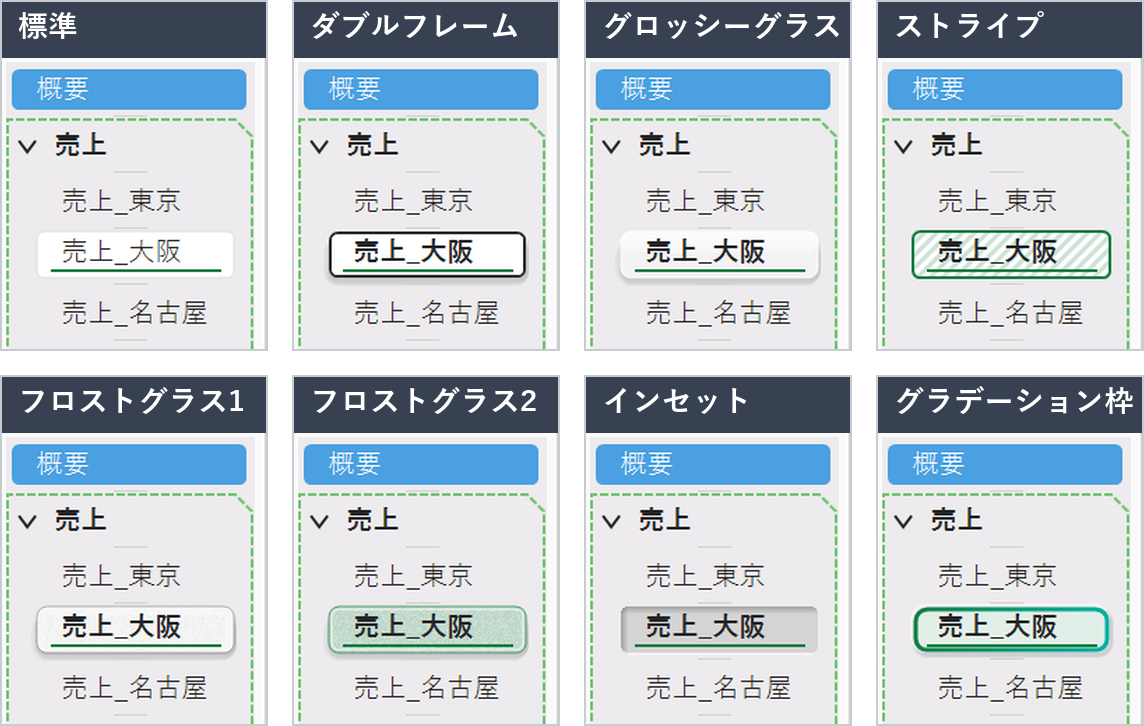
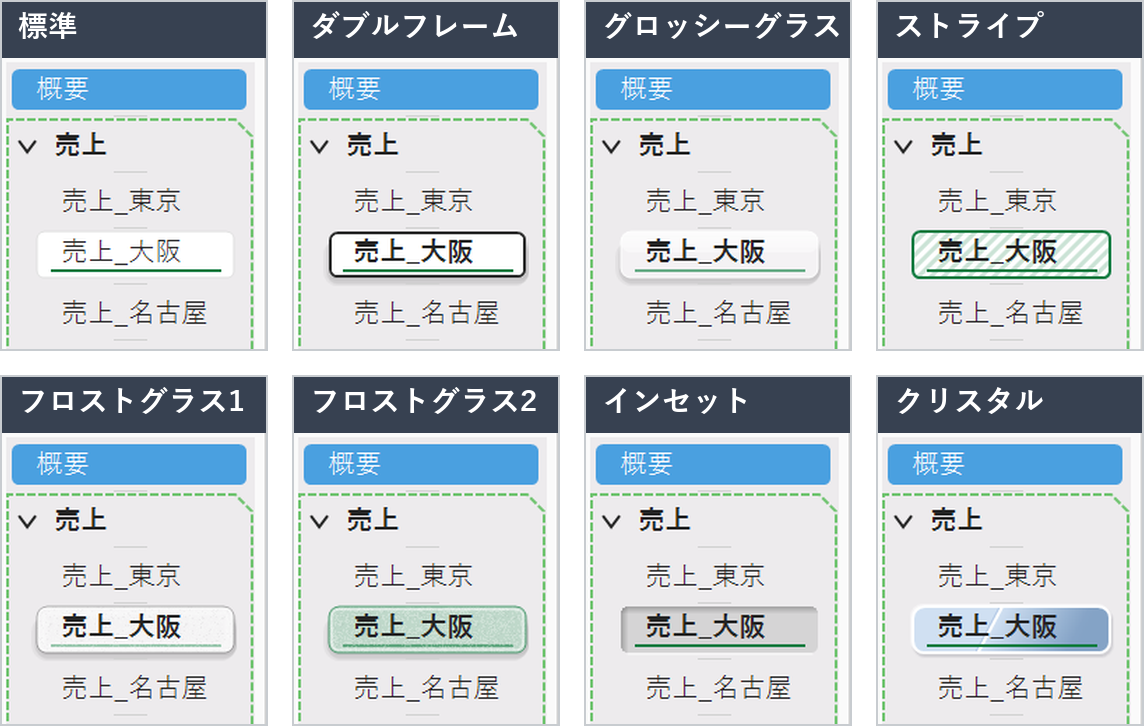
選択デザインの「グラデーション枠」を「クリスタル」に置き換える

diff --git a/VerticalSheetTabs/TabStrip.cs b/VerticalSheetTabs/TabStrip.cs
@@ -496,7 +496,7 @@ namespace VerticalSheetTabs
 
         private bool Stripes { get { return _selectStyle == SelectStyle.Stripes; } }
 
-        private bool Gradient { get { return _selectStyle == SelectStyle.GradientFrame; } }
+        private bool Crystal { get { return _selectStyle == SelectStyle.Crystal; } }
 
         // The mark of the active sheet, with every look (Agents.md 12.110).
         private ActiveMarker _activeMarker = ActiveMarker.Underline;
@@ -753,10 +753,10 @@ namespace VerticalSheetTabs
                 var body = new Rectangle(left, row.Top + Px(PlainTop), right - left, row.Height - Px(PlainTop) - Px(BottomInset));
                 textColor = DrawStripes(g, body, radius, colored, color);
             }
-            else if (selected && Gradient)
+            else if (selected && Crystal)
             {
                 var body = new Rectangle(left, row.Top + Px(PlainTop), right - left, row.Height - Px(PlainTop) - Px(BottomInset));
-                textColor = DrawGradientFrame(g, body, colored, color, 1.0);
+                textColor = DrawCrystal(g, body, colored, color, 1.0);
             }
             else if (selected && Glass)
             {
@@ -930,10 +930,10 @@ namespace VerticalSheetTabs
                 if (triangles) DrawMarkers(g, body, 0, LineColorFor(tabColor, colored));
                 if (bars) DrawEdgeBars(g, body, LineColorFor(tabColor, colored));
             }
-            else if (selected && Gradient)
+            else if (selected && Crystal)
             {
                 var body = new Rectangle(left, row.Top + Px(PlainTop), right - left, row.Height - Px(PlainTop) - Px(BottomInset));
-                textColor = DrawGradientFrame(g, body, colored, tabColor, active ? 1.0 : 0.6);
+                textColor = DrawCrystal(g, body, colored, tabColor, active ? 1.0 : 0.6);
                 if (underline) DrawUnderline(g, body, LineColorFor(tabColor, colored));
                 if (triangles) DrawMarkers(g, body, 0, LineColorFor(tabColor, colored));
                 if (bars) DrawEdgeBars(g, body, LineColorFor(tabColor, colored));
@@ -988,7 +988,7 @@ namespace VerticalSheetTabs
             if (_editor == null || name != _editingSheet)
             {
                 g.TextRenderingHint = TextRenderingHint.ClearTypeGridFit;
-                using (var font = selected && (DoubleFrame || Glass || Inset || Stripes || Gradient) ? new Font(TabFont, FontStyle.Bold) : null)
+                using (var font = selected && (DoubleFrame || Glass || Inset || Stripes || Crystal) ? new Font(TabFont, FontStyle.Bold) : null)
                 using (var brush = new SolidBrush(textColor))
                 using (var format = new StringFormat(StringFormat.GenericDefault))
                 {
@@ -1084,18 +1084,18 @@ namespace VerticalSheetTabs
             return TextOn(fill);
         }
 
-        // The gradient-frame look (Agents.md 12.131): a pale chip (a tint of the row's color; a row without color: of Excel's green)
-        // that is a little raised (half of the shadow of the neumorphic sketch: a light shadow at the lower right, a white glow at
-        // the upper left; GDI+ has no blur, so a few translucent shapes of growing size stand for each), inside a ring whose color
-        // runs from left to right: a dark shade of the row's color to a light one (Excel's green to a teal for a row without color).
-        // Returns the color of the text on it.
-        private Color DrawGradientFrame(Graphics g, Rectangle body, bool colored, Color color, double strength)
+        // The crystal look (Agents.md 12.139): the row is cut by a diagonal line into a light face at the left (the color of the row made
+        // lighter, or a pale blue for a row without color) and a dark one at the right; the light color fades out into the dark one, going
+        // right from the cut (over about 40% of the width), and a white line marks the cut (with a faint light line along its left side).
+        // The body is a little raised: half of the shadow of the neumorphic sketch (a light shadow at the lower right, a white glow at the
+        // upper left; GDI+ has no blur, so a few translucent shapes of growing size stand for each), and it has a white edge. Returns the
+        // color of the text on it.
+        private Color DrawCrystal(Graphics g, Rectangle body, bool colored, Color color, double strength)
         {
             bool dark = Theme.BarBack.GetBrightness() < 0.4f;
-            int radius = Px(8);
-            Color tint = colored ? Mix(color, Color.White, 0.72) : Mix(Underline, Color.White, 0.88);
-            Color left = colored ? Mix(color, Color.Black, 0.35) : Underline;
-            Color right = colored ? Mix(color, Color.White, 0.15) : Color.FromArgb(0, 176, 160);
+            int radius = Px(6);
+            Color baseColor = colored ? color : Color.FromArgb(150, 185, 225);
+            Color light = Mix(baseColor, Color.White, 0.55), deep = Mix(baseColor, Color.Black, 0.12);
             for (int k = 3; k >= 1; k--)
             {
                 var r = Rectangle.Inflate(body, Px(0.5 * k), Px(0.5 * k));
@@ -1116,18 +1116,40 @@ namespace VerticalSheetTabs
                     g.FillPath(brush, path);
                 }
             }
+            // the cut: from (cutX + 8, top) to (cutX - 6, bottom), DIP
+            float cutX = body.Left + body.Width * 0.38f;
+            var top = new PointF(cutX + Px(8), body.Top);
+            var bottom = new PointF(cutX - Px(6), body.Bottom);
             using (GraphicsPath path = RoundedRect(body, radius))
-            using (var brush = new SolidBrush(tint))
             {
-                g.FillPath(brush, path);
-            }
-            float ring = Math.Max(2f, Px(2.6));
-            Rectangle ringRect = Rectangle.Inflate(body, -(int)Math.Ceiling(ring / 2), -(int)Math.Ceiling(ring / 2));
-            using (GraphicsPath path = RoundedRect(ringRect, Math.Max(1, radius - (int)Math.Ceiling(ring / 2))))
-            using (var brush = new LinearGradientBrush(new Rectangle(body.X, body.Y, Math.Max(2, body.Width), Math.Max(2, body.Height)), left, right, LinearGradientMode.Horizontal))
-            using (var pen = new Pen(brush, ring))
-            {
-                g.DrawPath(pen, path);
+                using (var brush = new SolidBrush(light)) g.FillPath(brush, path);
+                Region clip = g.Clip;
+                g.SetClip(path, CombineMode.Intersect);
+                // the dark face, with a gradient across the cut (its direction is at a right angle to the cut) from the light color to the dark one
+                float dx = bottom.X - top.X, dy = bottom.Y - top.Y, len = (float)Math.Sqrt(dx * dx + dy * dy);
+                float nx = dy / len, ny = -dx / len; // at a right angle to the cut, pointing to the right
+                if (nx < 0) { nx = -nx; ny = -ny; }
+                var p1 = new PointF((top.X + bottom.X) / 2, (top.Y + bottom.Y) / 2);
+                float span = body.Right - p1.X + Px(2);
+                var p2 = new PointF(p1.X + nx * span, p1.Y + ny * span);
+                float fade = Math.Min(1f, body.Width * 0.4f / span);
+                using (var brush = new LinearGradientBrush(p1, p2, light, deep))
+                {
+                    brush.InterpolationColors = new ColorBlend(3)
+                    {
+                        Colors = new[] { light, deep, deep },
+                        Positions = new[] { 0f, fade, 1f }
+                    };
+                    var face = new[] { top, new PointF(body.Right + Px(1), body.Top), new PointF(body.Right + Px(1), body.Bottom), bottom };
+                    g.FillPolygon(brush, face);
+                }
+                using (var pen = new Pen(Color.FromArgb(90, 120, 150, 200), Math.Max(1f, Px(1.0))))
+                {
+                    g.DrawLine(pen, top.X - Px(1.5), top.Y, bottom.X - Px(1.5), bottom.Y);
+                }
+                using (var pen = new Pen(Color.White, Math.Max(1.5f, Px(1.6)))) g.DrawLine(pen, top, bottom);
+                g.Clip = clip;
+                using (var pen = new Pen(Color.White, Math.Max(1.5f, Px(1.2)))) g.DrawPath(pen, path);
             }
             return TextColor;
         }

diff --git a/VerticalSheetTabs/SettingsForm.cs b/VerticalSheetTabs/SettingsForm.cs
@@ -28,7 +28,7 @@ namespace VerticalSheetTabs
         private readonly RadioButton _styleFrosted2 = new RadioButton();
         private readonly RadioButton _styleInset = new RadioButton();
         private readonly RadioButton _styleStripes = new RadioButton();
-        private readonly RadioButton _styleGradient = new RadioButton();
+        private readonly RadioButton _styleCrystal = new RadioButton();
         private GroupBox _styleGroup;
         private readonly RadioButton _markerNone = new RadioButton();
         private readonly RadioButton _markerUnderline = new RadioButton();
@@ -146,9 +146,9 @@ namespace VerticalSheetTabs
             _styleFrosted2.Checked = selectStyle == SelectStyle.FrostedGlass2;
             _styleInset.Checked = selectStyle == SelectStyle.Inset;
             _styleStripes.Checked = selectStyle == SelectStyle.Stripes;
-            _styleGradient.Checked = selectStyle == SelectStyle.GradientFrame;
+            _styleCrystal.Checked = selectStyle == SelectStyle.Crystal;
             // the buttons sit in different panels (each next to its samples), so the form keeps them exclusive
-            RadioButton[] styles = { _styleStandard, _styleDouble, _styleGlossy, _styleStripes, _styleFrosted, _styleFrosted2, _styleInset, _styleGradient };
+            RadioButton[] styles = { _styleStandard, _styleDouble, _styleGlossy, _styleStripes, _styleFrosted, _styleFrosted2, _styleInset, _styleCrystal };
             foreach (RadioButton r in styles)
             {
                 RadioButton self = r;
@@ -192,7 +192,7 @@ namespace VerticalSheetTabs
                     : _styleFrosted2.Checked ? SelectStyle.FrostedGlass2
                     : _styleInset.Checked ? SelectStyle.Inset
                     : _styleStripes.Checked ? SelectStyle.Stripes
-                    : _styleGradient.Checked ? SelectStyle.GradientFrame : SelectStyle.Standard;
+                    : _styleCrystal.Checked ? SelectStyle.Crystal : SelectStyle.Standard;
             }
         }
 
@@ -233,7 +233,7 @@ namespace VerticalSheetTabs
             _styleFrosted2.Text = "フロストグラス２ (行の色を帯びた磨りガラス)";
             _styleInset.Text = "インセット (押し込まれたように凹む)";
             _styleStripes.Text = "ストライプ (ななめの縞で、目立たせる)";
-            _styleGradient.Text = "グラデーション枠 (行の色の輪を持つ、浮き出た面)";
+            _styleCrystal.Text = "クリスタル (斜めのカット面で、明るい色が消えていく)";
             var panel = new TableLayoutPanel
             {
                 ColumnCount = 5,
@@ -253,7 +253,7 @@ namespace VerticalSheetTabs
             panel.Controls.Add(CreateStyleBlock(_styleFrosted, SelectStyle.FrostedGlass), 1, 1);
             panel.Controls.Add(CreateStyleBlock(_styleFrosted2, SelectStyle.FrostedGlass2), 2, 1);
             panel.Controls.Add(CreateStyleBlock(_styleInset, SelectStyle.Inset), 3, 1);
-            panel.Controls.Add(CreateStyleBlock(_styleGradient, SelectStyle.GradientFrame), 4, 1);
+            panel.Controls.Add(CreateStyleBlock(_styleCrystal, SelectStyle.Crystal), 4, 1);
             group.Controls.Add(panel);
             panel.Location = group.DisplayRectangle.Location;
             Size content = panel.PreferredSize;

diff --git a/VerticalSheetTabs/WorkbookSettings.cs b/VerticalSheetTabs/WorkbookSettings.cs
@@ -20,7 +20,7 @@ namespace VerticalSheetTabs
         FrostedGlass2, // frosted glass tinted with the row's color (Agents.md 12.107)
         Inset,         // pressed in: a darker body with a shadow inside its upper and left edges (Agents.md 12.115)
         Stripes,       // diagonal stripes with an outline (Agents.md 12.131)
-        GradientFrame  // a pale raised chip with a gradient ring made of the row's color (Agents.md 12.131)
+        Crystal        // diagonal cut faces: a light one and a dark one, the light color fading out into the dark one (Agents.md 12.139)
     }
 
     // The mark of the active sheet (Agents.md 12.110), drawn with every look of SelectStyle.
@@ -52,7 +52,7 @@ namespace VerticalSheetTabs
         public const string OutlineLevelName = "VTab.OutlineLevel"; // number 1..9
         public const string NameRuleName = "VTab.NameRule";         // string "On" / "Off"
         public const string ActiveMarkerName = "VTab.ActiveMarker"; // string "None" / "Underline" / "Triangle" / "EdgeBars" / "CheckBadge" (default "Underline")
-        public const string SelectStyleName = "VTab.SelectStyle";   // string "Standard" / "DoubleFrame" / "FrostedGlass" / "GlossyGlass" / "FrostedGlass2" / "Inset" / "Stripes" / "GradientFrame"
+        public const string SelectStyleName = "VTab.SelectStyle";   // string "Standard" / "DoubleFrame" / "FrostedGlass" / "GlossyGlass" / "FrostedGlass2" / "Inset" / "Stripes" / "Crystal"
 
         // Office.MsoDocProperties values.
         private const int PropTypeNumber = 1;
@@ -176,7 +176,8 @@ namespace VerticalSheetTabs
                 case "FrostedGlass2": return SelectStyle.FrostedGlass2;
                 case "Inset": return SelectStyle.Inset;
                 case "Stripes": return SelectStyle.Stripes;
-                case "GradientFrame": return SelectStyle.GradientFrame;
+                case "Crystal":
+                case "GradientFrame": return SelectStyle.Crystal; // (GradientFrame, in v1.1.50 to v1.1.52, became the crystal look)
                 default: return SelectStyle.Standard;
             }
         }
@@ -191,7 +192,7 @@ namespace VerticalSheetTabs
                 case SelectStyle.FrostedGlass2: return "FrostedGlass2";
                 case SelectStyle.Inset: return "Inset";
                 case SelectStyle.Stripes: return "Stripes";
-                case SelectStyle.GradientFrame: return "GradientFrame";
+                case SelectStyle.Crystal: return "Crystal";
                 default: return "Standard";
             }
         }

diff --git a/Agents.md b/Agents.md
@@ -27,7 +27,7 @@
 | フォルダの選択 | フォルダの行のクリックで、フォルダだけを選択 / 解除する。中のシートは、Excelで選択されない | 12.19 |
 | フォルダの色 | フォルダの行全体に付ける (左端の帯ではない)。シートには反映しない | 12.19 |
 | フォルダの一括操作 | 名前の変更 / すべて非選択 / すべて選択 / すべて非表示 / すべて再表示 / フォルダの色 / 中の全てを常にフォルダと同一色に設定 (ON/OFF、チェックマーク) / フォルダの削除 / フォルダと中のシートを削除 / 全てのフォルダを閉じる / 全てのフォルダを開く。「保護」、「移動またはコピー」、「フォルダと中のシートの色」、「中の全てを選択中シートと同一色に変更」は、削除した | 12.12、12.28 から 12.31、12.39、12.65、12.66、12.80、12.82 |
-| 選択中の行の見た目 | アクティブなシートの印は、設定画面の「アクティブシートのマーカー表示」(下線マーカー / 三角マーカー / 両端バーマーカー / マーカーなし。初期値は下線。ブックごと) で選び、選択デザインと組み合わせて表示する (12.110、12.111、12.116)。三角は、白い縁取りとぼかし (約2px) 付き (12.109)。設定画面の「フォルダ＆シート選択のデザイン」で、8つのタイプから選ぶ (ブックごと。初期値は「標準タイプ」。12.99、12.105、12.107、12.115、12.131)。ストライプタイプは、ななめの縞と枠、グラデーション枠タイプは、浮き出た淡い面と、行の色のグラデーションの輪 (12.131)。アクティブシートのマーカーには、チェックバッジマーカー (名前の左に丸いチェック) もある (12.131)。インセットタイプは、行が押し込まれたように凹んで見える (12.115)。グロッシーグラスタイプ、フロストグラス１タイプ、フロストグラス２タイプは、行の上に、半透明のガラスを重ねる (12.105、12.107)。標準タイプは、v1.1.28 までの見た目 (白い塗りと薄い枠、色付きは上が白のグラデーション、アクティブなシートだけに緑の下線)。ダブルフレームタイプは、次の見た目: 影が付き、暗い外枠と白い内枠の二重の枠で囲まれ、アクティブなシート (内容が表示されているシート) だけに、左右の端に、中央を向いた小さな三角が付く (フォルダと、グループの、ほかのシートには、付かない。12.95、12.97)。文字は太字。色付きは、元の色のまま。三角は、行の色の反対色 (色なしの行は、Excelの緑) で、白い縁と、約4pxの白いぼかしが付く。選択中のすべてのフォルダとシートが、同じ見た目 (グループの、アクティブでないシートは、影が弱い) | 12.85、12.91、12.93、12.95、12.97、12.99、12.105、12.107、12.109、12.110、12.111、12.115、12.116 |
+| 選択中の行の見た目 | アクティブなシートの印は、設定画面の「アクティブシートのマーカー表示」(下線マーカー / 三角マーカー / 両端バーマーカー / マーカーなし。初期値は下線。ブックごと) で選び、選択デザインと組み合わせて表示する (12.110、12.111、12.116)。三角は、白い縁取りとぼかし (約2px) 付き (12.109)。設定画面の「フォルダ＆シート選択のデザイン」で、8つのタイプから選ぶ (ブックごと。初期値は「標準タイプ」。12.99、12.105、12.107、12.115、12.131)。ストライプタイプは、ななめの縞と枠、クリスタルタイプは、斜めのカット面と、消えていく明るい色 (12.139。12.131 のグラデーション枠を置き換えた)。アクティブシートのマーカーには、チェックバッジマーカー (名前の左に丸いチェック) もある (12.131)。インセットタイプは、行が押し込まれたように凹んで見える (12.115)。グロッシーグラスタイプ、フロストグラス１タイプ、フロストグラス２タイプは、行の上に、半透明のガラスを重ねる (12.105、12.107)。標準タイプは、v1.1.28 までの見た目 (白い塗りと薄い枠、色付きは上が白のグラデーション、アクティブなシートだけに緑の下線)。ダブルフレームタイプは、次の見た目: 影が付き、暗い外枠と白い内枠の二重の枠で囲まれ、アクティブなシート (内容が表示されているシート) だけに、左右の端に、中央を向いた小さな三角が付く (フォルダと、グループの、ほかのシートには、付かない。12.95、12.97)。文字は太字。色付きは、元の色のまま。三角は、行の色の反対色 (色なしの行は、Excelの緑) で、白い縁と、約4pxの白いぼかしが付く。選択中のすべてのフォルダとシートが、同じ見た目 (グループの、アクティブでないシートは、影が弱い) | 12.85、12.91、12.93、12.95、12.97、12.99、12.105、12.107、12.109、12.110、12.111、12.115、12.116 |
 | 開いたフォルダ | 点線で囲む (右上と左下が欠ける)。表示 / 非表示と色の段階 (1から9) は、設定画面で選ぶ | 12.42、12.47、12.48、12.50 |
 | 「+」ボタン | 縦タブの下端に常に固定。選択が閉じたフォルダの中だけのときは、一番下に追加 | 12.17、12.50 |
 | シート名のルール | `フォルダ名 \| シート名`。ブックごとに、使う / 使わないを選ぶ (初期値: 使わない) | 12.56 |
@@ -46,7 +46,7 @@
 | 8 | Step0 から Step5 の開発メモ |
 | 9 | Step6 見た目の再現 (採寸結果、テーマ、DPI) |
 | 10、11 | Step7 仕上げ、完了状況と残課題 |
-| 12 | Step8 フォルダ機能の設計と、その後の改善、不具合の修正、リリースの記録 (12.1 から 12.138) |
+| 12 | Step8 フォルダ機能の設計と、その後の改善、不具合の修正、リリースの記録 (12.1 から 12.139) |
 | 13 | リリースの定型作業 |
 
 ## 1. 目的
@@ -115,7 +115,7 @@ Excelのシートタブは標準で横並びだが、シート数が増えると
 | `VTab.OutlineLevel` | 数値 (整数) | 点線の色の段階 1から9 (12.50)。無いブックは 5 |
 | `VTab.NameRule` | 文字列 | `On` / `Off` (シート名のルール。12.56)。無いブックは `Off` |
 | `VTab.ActiveMarker` | 文字列 | `None` / `Underline` / `Triangle` / `EdgeBars` / `CheckBadge` (アクティブなシートのマーカー。12.110、12.111、12.116、12.131)。無いブックは `Underline` |
-| `VTab.SelectStyle` | 文字列 | `Standard` / `DoubleFrame` / `FrostedGlass` / `GlossyGlass` / `FrostedGlass2` / `Inset` / `Stripes` / `GradientFrame` (選択中のフォルダとシートの見た目。12.99、12.105、12.107、12.115、12.131)。無いブックは `Standard` |
+| `VTab.SelectStyle` | 文字列 | `Standard` / `DoubleFrame` / `FrostedGlass` / `GlossyGlass` / `FrostedGlass2` / `Inset` / `Stripes` / `Crystal` (選択中のフォルダとシートの見た目。12.99、12.105、12.107、12.115、12.131)。無いブックは `Standard` |
 
 `VTab.Mode` 等のプロパティが存在しないブックは初回オープンと判断する (`VTab.Outline`、`VTab.OutlineLevel`、`VTab.NameRule`、`VTab.SelectStyle`、`VTab.ActiveMarker` は、判断に使わない)。
 
@@ -1987,3 +1987,12 @@ gitGraph
 
 - 12.137 (ストライプの選択で、明るい色の行は、暗い縞にする) を含めて、バージョンを 1.1.52.0 に上げ、ClickOnce のインストーラを作り直した (`develop` と `master` に反映し、`v1.1.52` のタグを付けた。配布用zip: `配布用zip\VerticalSheetTabs_v1.1.52.zip`)
 - 成果物: `VerticalSheetTabs\bin\Release\app.publish\` (`setup.exe`、`VerticalSheetTabs.vsto`、`Application Files\VerticalSheetTabs_1_1_52_0\`)。インストールの実機確認は、未実施
+
+### 12.139 変更: 選択デザインの「グラデーション枠」を、「クリスタル」に置き換える
+
+- ユーザーの要望により、12.131 の「グラデーション枠」を止めて、「クリスタル」に置き換えた。経緯: 追加の候補を、10案 示し (ネオブルータル、オーロラ、ラベルテープ、リボン、クリスタル、方眼紙、切手、メタル、フォルダタブ、ピクセル)、いったん、追加は中止したが、その後、案5のクリスタルに、グラデーション枠のときのドロップシャドウ (案5の半分の幅) を加え、さらに、カットの左の明るい色が、右へ向かって、フェードアウトする効果を、カット線を残して加えた案を、予想図で確認し、「カット位置が左寄り (行の幅の38%)、中ほどで消える (幅の約40%)」の案 (A2) を選んだ。カット線の右側に沿った影は、付けない
+- 見た目 (`TabStrip.DrawCrystal`): 行を、斜めのカット (上の端が、カット位置より右に8DIP、下の端が、左に6DIP) で、左の明るい面 (行の色を、白に55%混ぜた色。色なしの行は、淡い青 `#96B9E1` を、同じく明るくした色) と、右の濃い面 (行の色を、黒に12%混ぜた色) に分ける。カットから右へ向かって、明るい色が、濃い色へ、行の幅の約40%の距離で、変わっていく (グラデーションの向きは、カット線に直角)。カットには、白い線 (1.6DIP) と、その左側に、淡い青の細い線を引く。全体は、白い縁 (1.2DIP) で囲み、柔らかい影 (右下に淡い影、左上に白い光。案5の半分の幅。GDI+ にはぼかしが無いため、少しずつ大きい半透明の図形を重ねる) で、少し浮いて見える。角の丸みは6DIP。文字は太字、色は、いつもの濃い色。グループの、アクティブでないシートは、影が弱い
+- 保存: `VTab.SelectStyle` の値 `Crystal`。**v1.1.50 から v1.1.52 で、「グラデーション枠」(`GradientFrame`) を保存したブックは、読み込み時に、「クリスタル」として扱う** (`WorkbookSettings` の読み取り)
+- 設定画面: 下段の右端の選択肢が、「クリスタル (斜めのカット面で、明るい色が消えていく)」に変わった。README の画像 (`designs.png`、`settings_full.png`、`settings_design.png`) を、撮り直した
+- 実機で確認 (拡大率125%、カラフルの配色): クリスタルと、4つのマーカー (下線、三角、両端バー、チェックバッジ) の組み合わせを、色なしのシート、橙のシートで撮影して確認した。設定画面の選択肢のサンプルも確認した
+- 未確認: ダークグレー、黒の配色、100%、150%、200%の拡大率、グラデーション枠の保存値を持つ、古いブックの実機での読み込み (コードの対応のみ)

diff --git a/README.md b/README.md
@@ -87,7 +87,7 @@
 
 選択中の行の見た目を、**8種類**から選べます (ブックごとの設定。初期値は「標準」)。
 
-![8つの選択デザイン: 標準、ダブルフレーム、グロッシーグラス、ストライプ、フロストグラス1、フロストグラス2、インセット、グラデーション枠](docs/images/designs.png)
+![8つの選択デザイン: 標準、ダブルフレーム、グロッシーグラス、ストライプ、フロストグラス1、フロストグラス2、インセット、クリスタル](docs/images/designs.png)
 
 | 選択デザイン | 特長 |
 |---|---|
@@ -98,7 +98,7 @@
 | **フロストグラス2** | 行の色を帯びた、磨りガラス |
 | **インセット** | 押し込まれたように凹んで見える |
 | **ストライプ** | ななめの縞と、緑の枠 (色付きの行は、白い縞と、濃い枠) |
-| **グラデーション枠** | 淡い色の面が柔らかく浮き出て、行の色から作ったグラデーションの輪で囲まれる |
+| **クリスタル** | 斜めのカットで、明るい面と濃い面に分かれ、明るい色が右へ消えていく。柔らかい影つき |
 
 さらに、**今、内容が表示されているシート (アクティブなシート)** の印も、5種類から選べます。どの選択デザインとも組み合わせられます。
 
@@ -150,7 +150,7 @@
 |---|---|
 | 縦タブの表示 | シートを縦に並べて表示 / 左右どちらにも配置 / ペインの幅をドラッグで変更 (保存される) / シートが多いときは縦スクロール / 長い名前は「…」で省略、ポインターを乗せると全体を表示 |
 | 表示モード | 横タブのみ / 縦タブのみ / 両方 (ブックごとに選択) |
-| 見た目 | Excelの横タブと同じ色、形、シート見出しの色。選択中のフォルダとシートの見た目は、設定画面で、「標準」(Excelの横タブと同じ。白い塗りと薄い枠、アクティブなシートに緑の下線)、「ダブルフレーム」、「グロッシーグラス」(上半分に反射の帯がある、光沢のあるガラスを重ねる)、「フロストグラス１」(縁が内側から光る磨りガラスを、行の上に重ねる)、「フロストグラス２」(行の色 (色なしの行は緑) を帯びた磨りガラスを重ねる)、「インセット」(押し込まれたように凹んで見える)、「ストライプ」(ななめの縞と枠)、「グラデーション枠」(浮き出た淡い面と、行の色のグラデーションの輪) から選べる (初期値は、標準)。ガラスの選択肢では、行の色や区切り線が、ガラス越しに透けて見える。ダブルフレームでは、選択中の行は、(色付きは、元の色のまま) 影が付き、暗い外枠と白い内枠の二重の枠で囲まれ、文字が太字になる。シートの内容が表示されている、アクティブなシートの印 (マーカー) は、設定画面の「アクティブシートのマーカー表示」で、下線マーカー (名前の下に線)、三角マーカー (左右の端に小さな三角)、両端バーマーカー (左右の端に太い帯)、チェックバッジマーカー (名前の左に丸いチェック)、マーカーなし から選べ (初期値は、下線マーカー)、どの選択デザインとも組み合わせて表示される (フォルダと、グループの、ほかのシートには付かない)。三角は、その行の色の反対色 (色相環で、最も色差が大きい色) で、白い縁取りとぼかしが付き、暗い背景や暗い色の行でも見える。Officeテーマ (カラフル、白、黒、ダークグレー) と画面の拡大率に対応 |
+| 見た目 | Excelの横タブと同じ色、形、シート見出しの色。選択中のフォルダとシートの見た目は、設定画面で、「標準」(Excelの横タブと同じ。白い塗りと薄い枠、アクティブなシートに緑の下線)、「ダブルフレーム」、「グロッシーグラス」(上半分に反射の帯がある、光沢のあるガラスを重ねる)、「フロストグラス１」(縁が内側から光る磨りガラスを、行の上に重ねる)、「フロストグラス２」(行の色 (色なしの行は緑) を帯びた磨りガラスを重ねる)、「インセット」(押し込まれたように凹んで見える)、「ストライプ」(ななめの縞と枠)、「クリスタル」(斜めのカット面と、消えていく明るい色) から選べる (初期値は、標準)。ガラスの選択肢では、行の色や区切り線が、ガラス越しに透けて見える。ダブルフレームでは、選択中の行は、(色付きは、元の色のまま) 影が付き、暗い外枠と白い内枠の二重の枠で囲まれ、文字が太字になる。シートの内容が表示されている、アクティブなシートの印 (マーカー) は、設定画面の「アクティブシートのマーカー表示」で、下線マーカー (名前の下に線)、三角マーカー (左右の端に小さな三角)、両端バーマーカー (左右の端に太い帯)、チェックバッジマーカー (名前の左に丸いチェック)、マーカーなし から選べ (初期値は、下線マーカー)、どの選択デザインとも組み合わせて表示される (フォルダと、グループの、ほかのシートには付かない)。三角は、その行の色の反対色 (色相環で、最も色差が大きい色) で、白い縁取りとぼかしが付き、暗い背景や暗い色の行でも見える。Officeテーマ (カラフル、白、黒、ダークグレー) と画面の拡大率に対応 |
 | シートの操作 | 切り替え / 追加 (+) / 挿入 / 削除 / 名前の変更 / 移動 / コピー / 非表示 / 再表示 / シートの保護 / コードの表示 / シート見出しの色 |
 | 複数選択 | Ctrl+クリック、Shift+クリックで、グループ選択。グループのまま、移動、コピー、色の変更、非表示、削除 |
 | フォルダ | シートを1段のフォルダに分類 / 開閉 / 名前、色 / ドラッグで移動、コピー / フォルダごとの一括操作。並びは、横タブにも反映 |
@@ -379,7 +379,7 @@ flowchart LR
 | 表示モード | 横タブのみ / 縦タブのみ / 両方 | 横タブ、縦タブの表示を選ぶ |
 | 縦タブの位置 | 左 / 右 | 縦タブのペインを置く側 (「横タブのみ」のときは選べません) |
 | アクティブシートのマーカー表示 | 下線マーカー / 三角マーカー / 両端バーマーカー / チェックバッジマーカー (名前の左に丸いチェック) / マーカーなし (横に並ぶ) | アクティブなシートの印。選んだマーカーは、下の選択デザインのサンプルにも、すぐ反映される。初期値は、下線マーカー |
-| フォルダ＆シート選択のデザイン | 標準 / ダブルフレーム / グロッシーグラス / ストライプ / フロストグラス１ / フロストグラス２ / インセット / グラデーション枠 | 選択中のフォルダとシートの見た目。8つの選択肢が、横4 x 縦2 に並ぶ。左端に、非選択のサンプルが1つ (2段の中央)、各選択肢には、選択 (色なしのシート) と選択 (色付きのシート) のサンプルが出る (サンプルをクリックしても選べる)。初期値は、標準 |
+| フォルダ＆シート選択のデザイン | 標準 / ダブルフレーム / グロッシーグラス / ストライプ / フロストグラス１ / フロストグラス２ / インセット / クリスタル | 選択中のフォルダとシートの見た目。8つの選択肢が、横4 x 縦2 に並ぶ。左端に、非選択のサンプルが1つ (2段の中央)、各選択肢には、選択 (色なしのシート) と選択 (色付きのシート) のサンプルが出る (サンプルをクリックしても選べる)。初期値は、標準 |
 | シート名のルール | 使う | [7章](#7-シート名のルール) |
 | フォルダを囲む点線 | 点線を表示する | 開いたフォルダの点線の ON / OFF |
 | | 色 (1から9) | 点線の色。右にいくほど、縦タブの背景から離れた、はっきりした色 |
